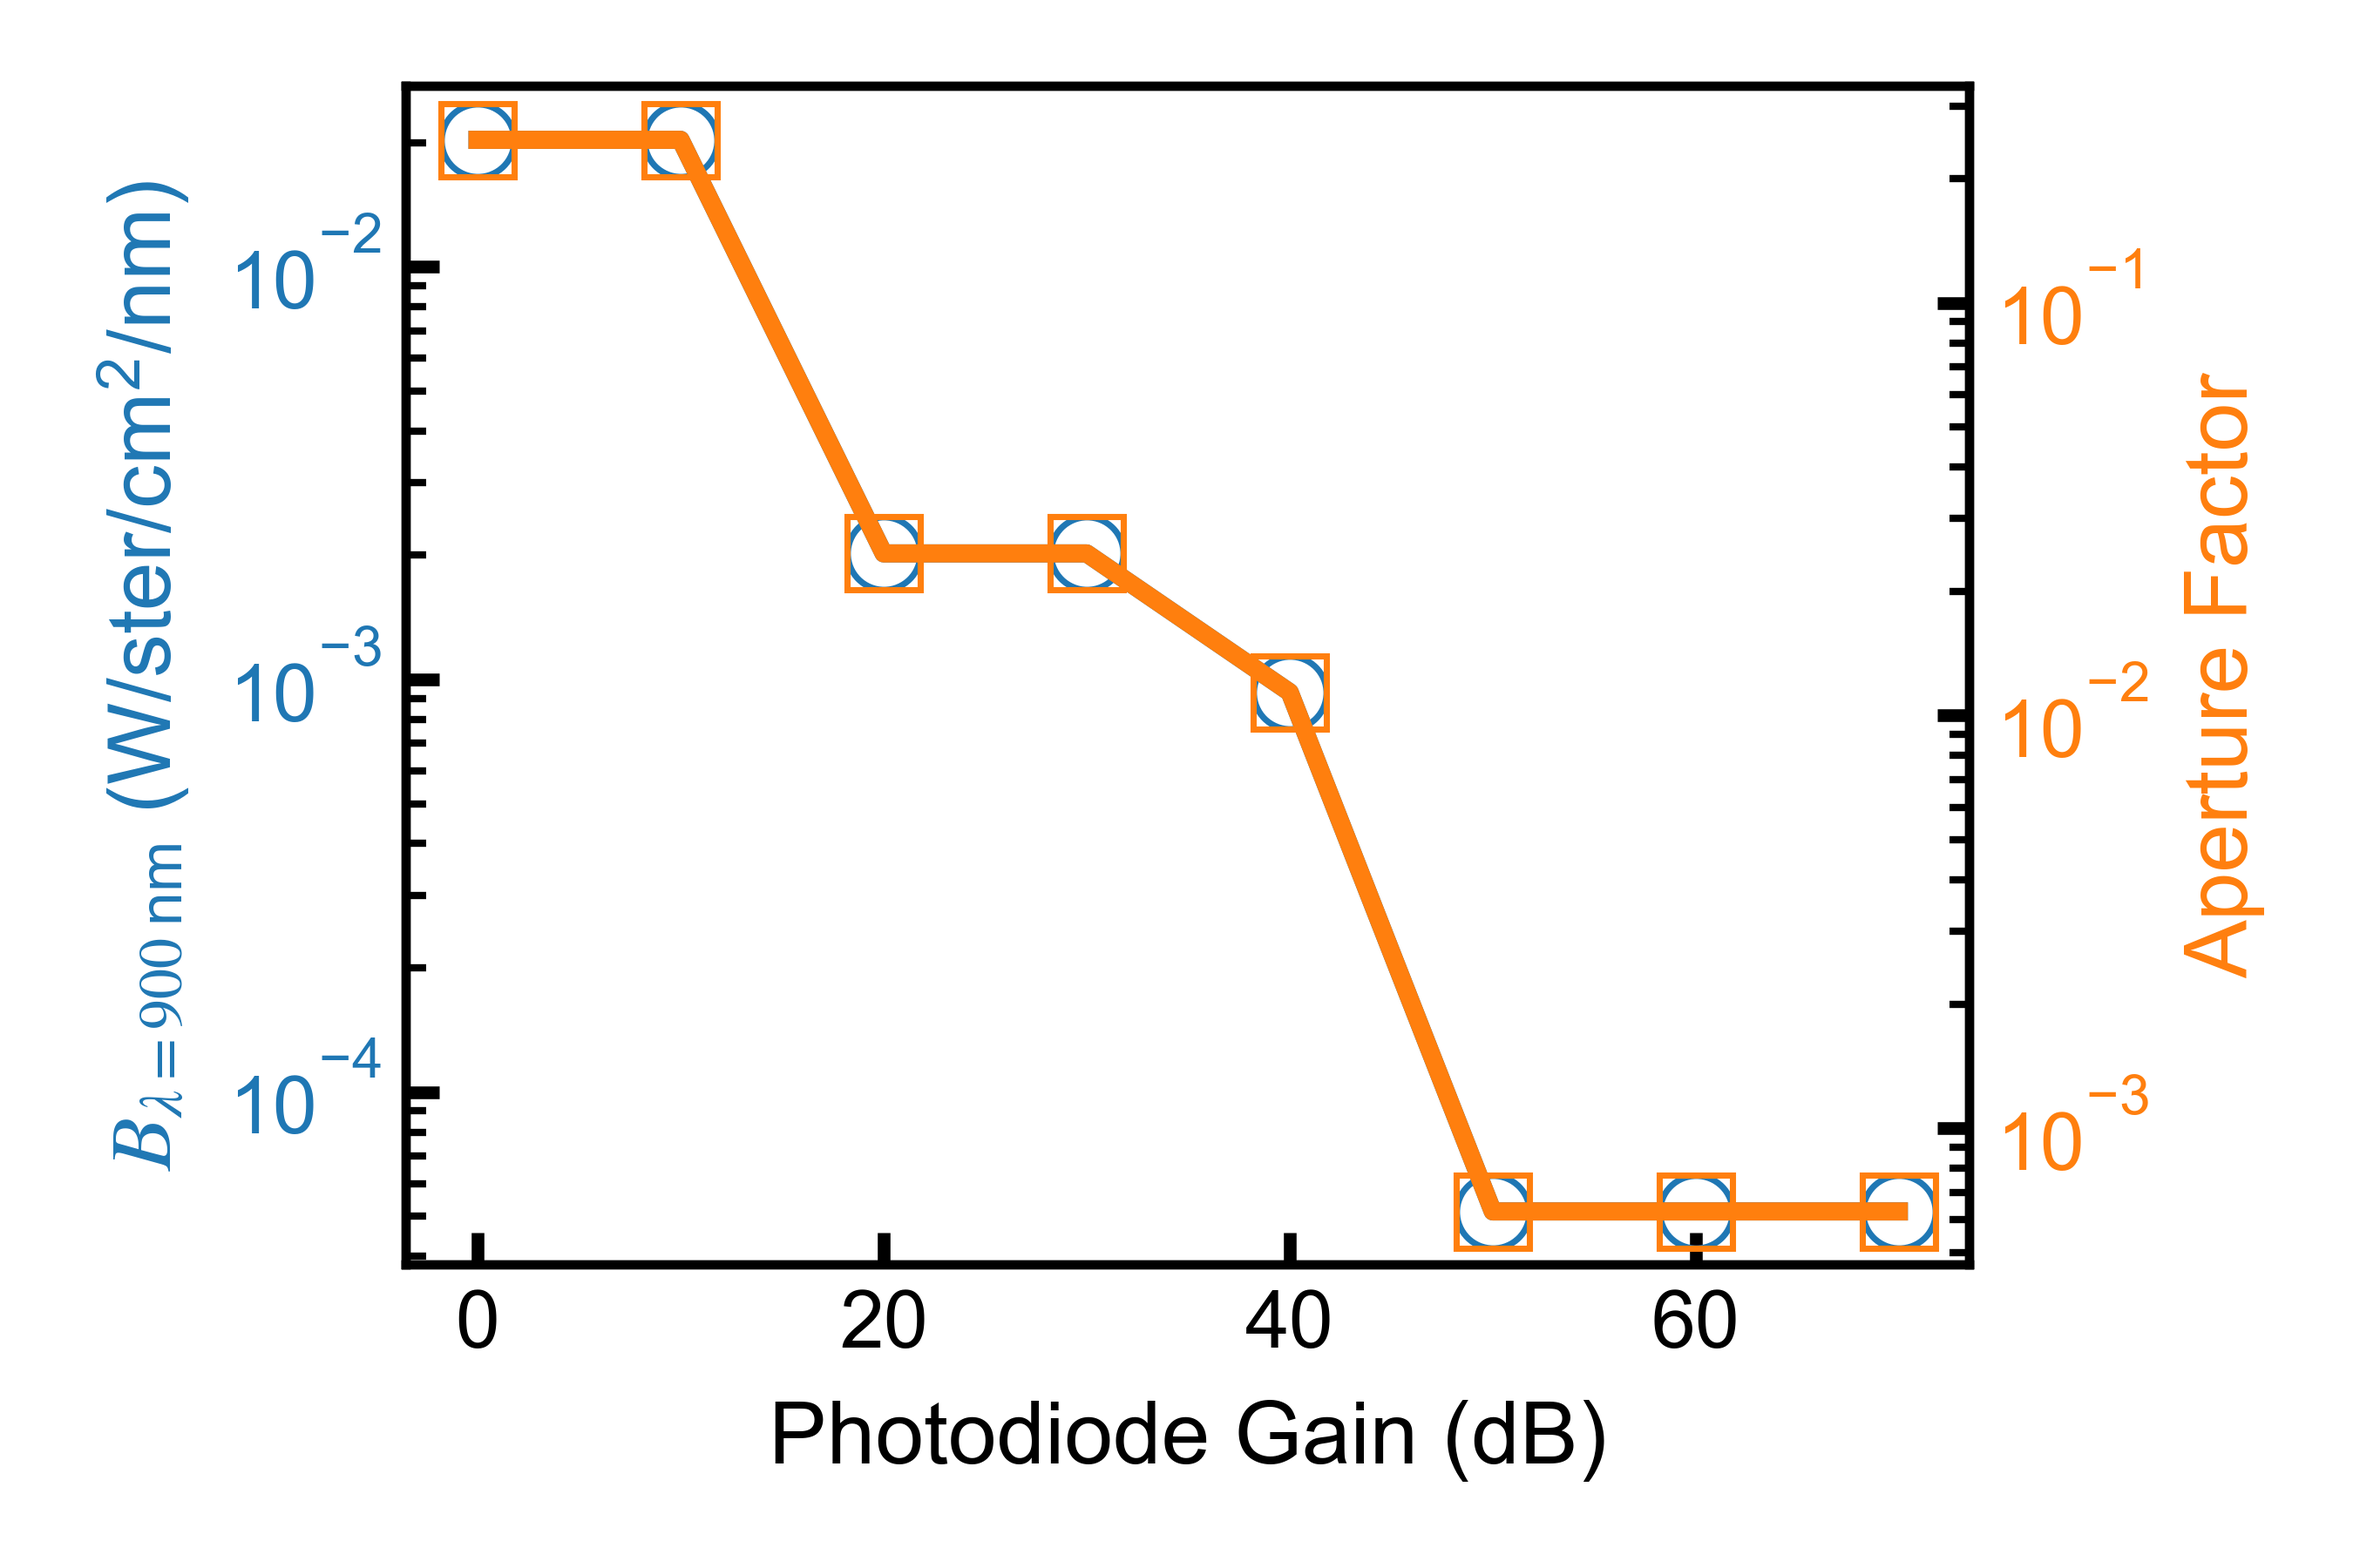
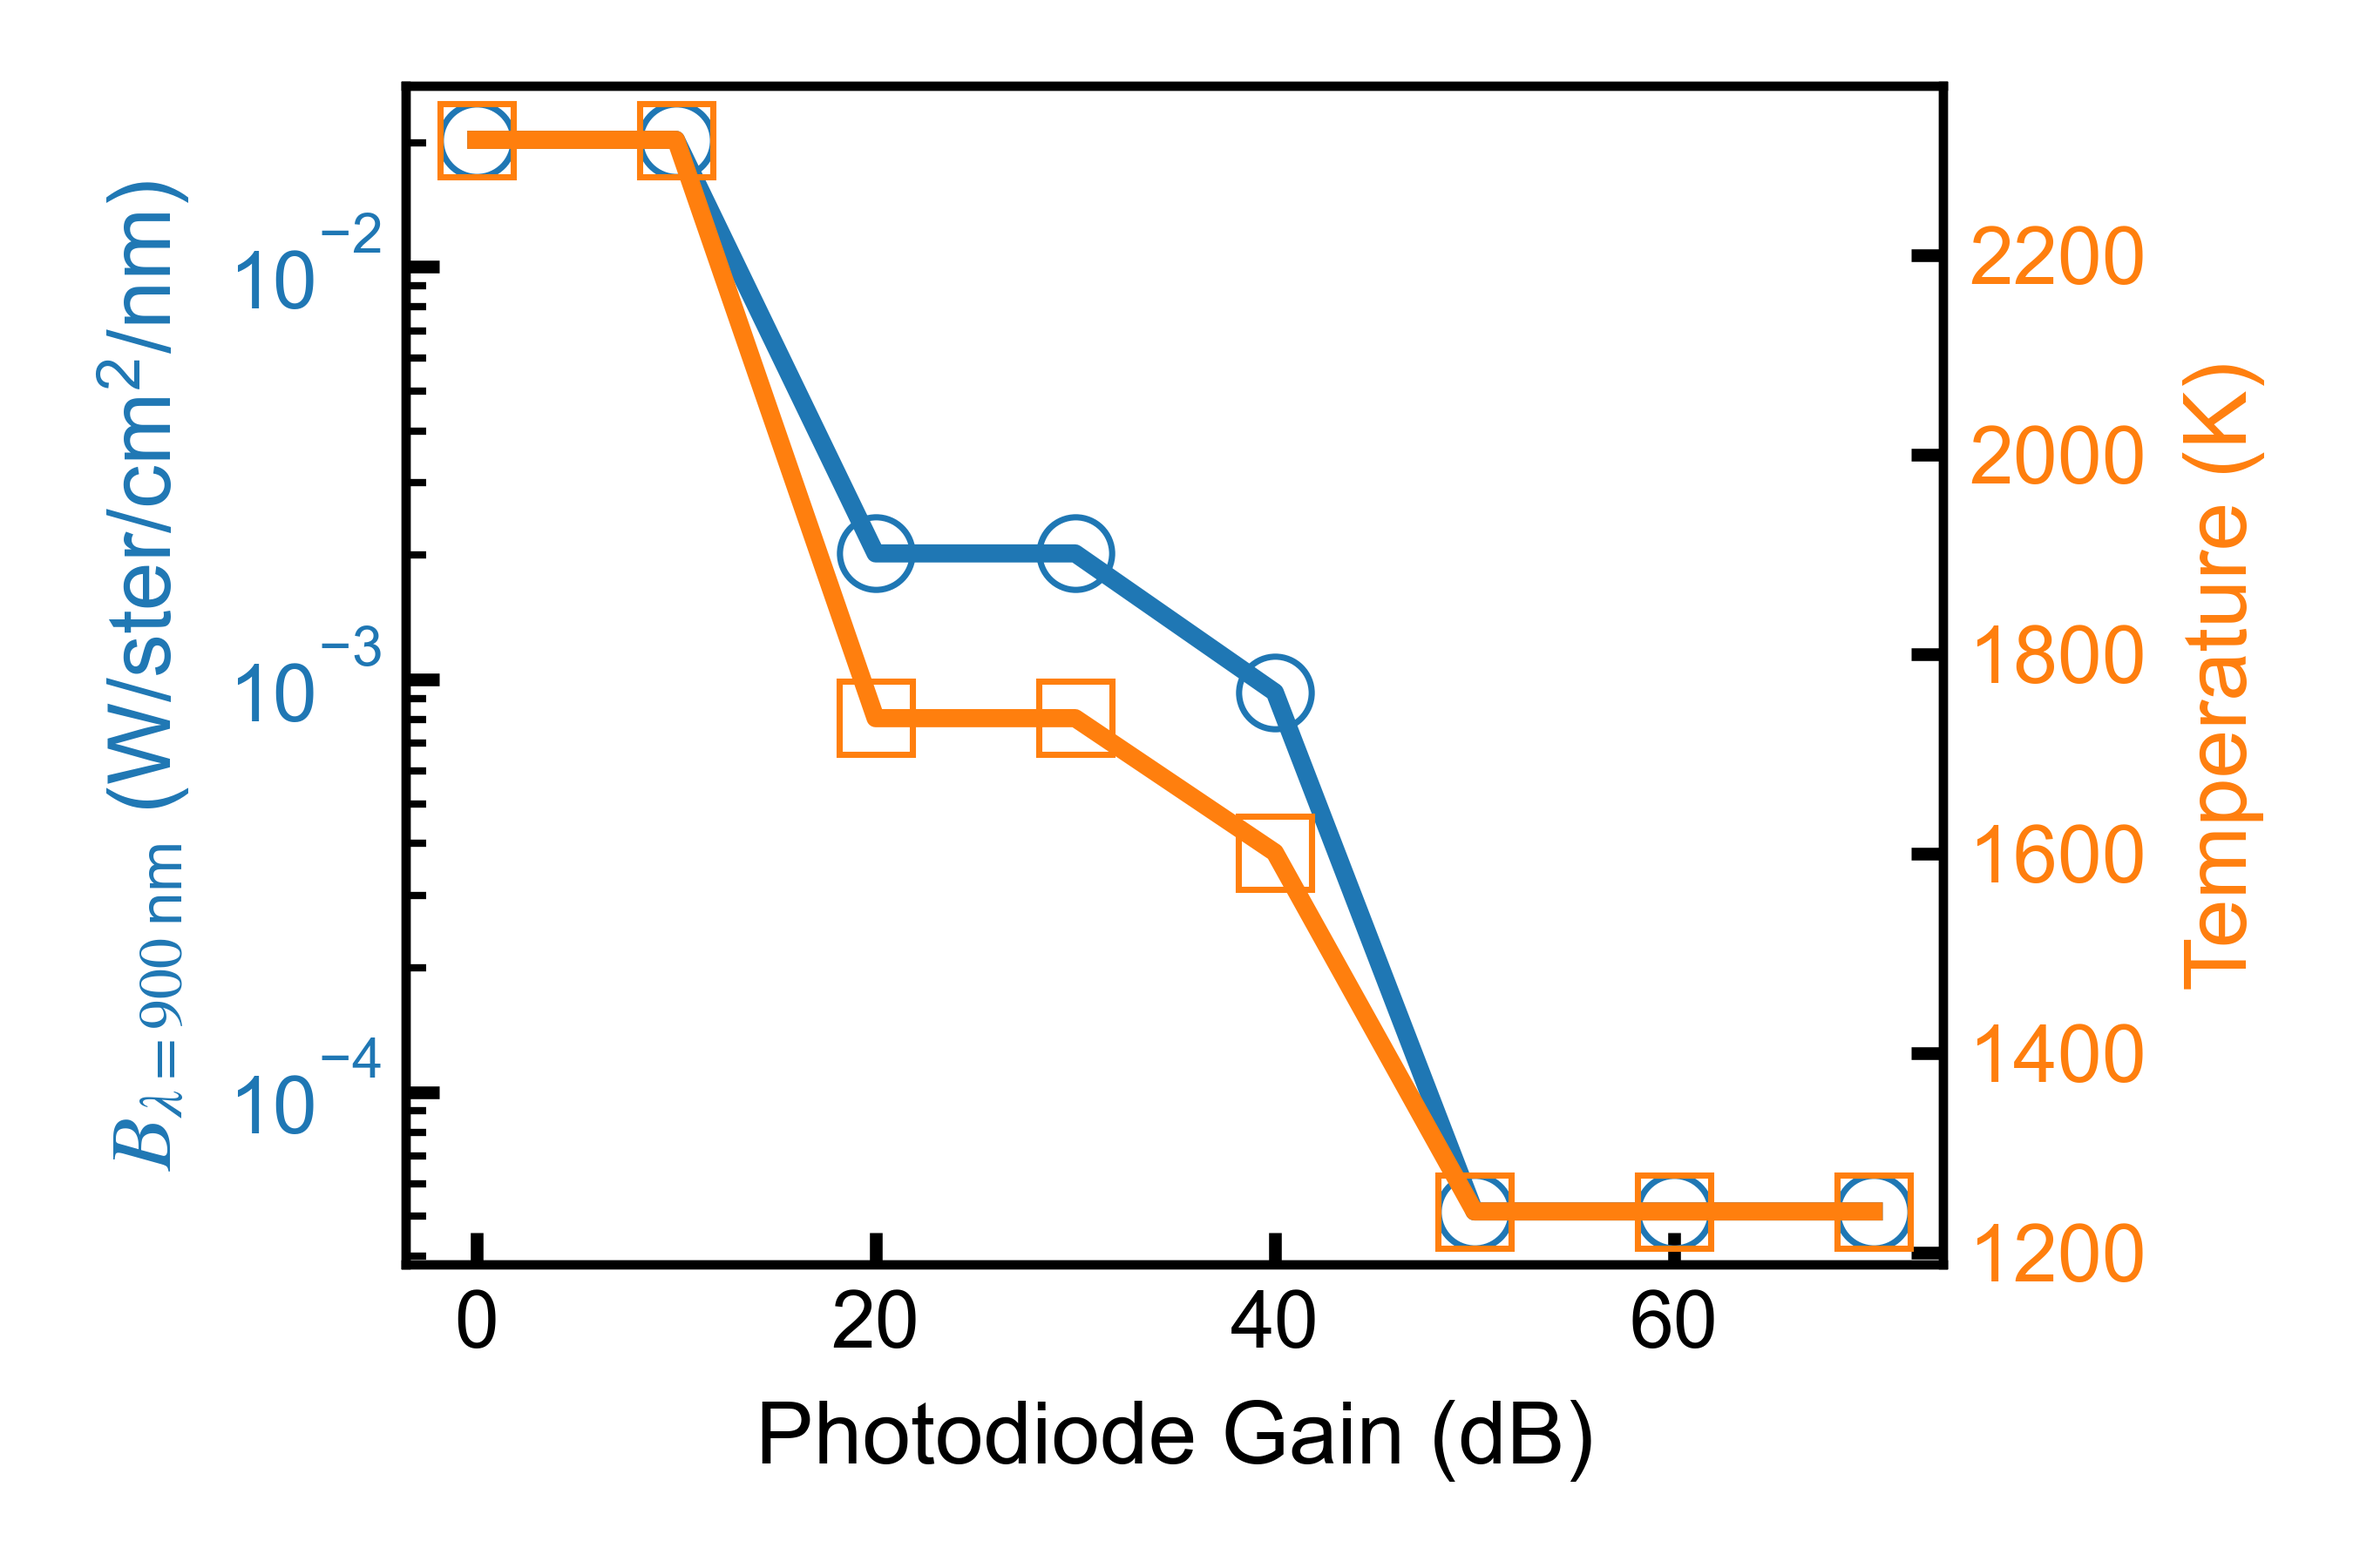
IR thermography calibration

diff --git a/ir_thermography/ir_thermography_calibration.py b/ir_thermography/ir_thermography_calibration.py
@@ -2,9 +2,9 @@ import pandas as pd
 import numpy as np
 import matplotlib.pyplot as plt
 import matplotlib as mpl
-import os
 import json
 from matplotlib.ticker import ScalarFormatter
+from scipy import integrate
 
 import numpy as np
 from scipy import constants
@@ -13,7 +13,8 @@ window_transmission_at_900 = 0.912
 slide_transmission_at_900 = 0.934
 
 calibration_temperature = 2900 # K
-calibration_wavelength = 900 # nm
+calibration_wavelength = 900.0 # nm
+labsphere_brightness_at_900 = 5.16E-5 # W/s/cm^2/ster/nm
 
 
 def spectral_radiance(wavelength_nm, temperature: float):
@@ -43,6 +44,14 @@ def spectral_radiance(wavelength_nm, temperature: float):
     radiance *= 1E14 / (np.exp(hc_by_kt_lambda) - 1.0)  # 1E27 J/m^3 s = 1E18 J / (m^2 nm s) = 1E14 J / cm^2 nm
     return radiance
 
+def latex_float(f):
+    float_str = f"{f:5.4g}".lower()
+    if "e" in float_str:
+        base, exponent = float_str.split("e")
+        # return r"{0} \times 10^{{{1}}}".format(base, int(exponent))
+        return f"{base} \\times 10^{{{int(exponent):2d}}}"
+    else:
+        return float_str
 
 def temperature_at_radiance(radiance: float, wavelength_nm: float):
     """
@@ -88,11 +97,12 @@ if __name__ == "__main__":
     #     wavelength_nm
     # )
 
-
+    labsphere_aperture = calibration_brightness_900 / labsphere_brightness_at_900
+    print(f"Labsphere aperture: {labsphere_aperture:6.3E}")
     # calibration_df['Calibration Factor (V/W/ster/cm^2/nm) at 900 nm'] = calibration_df['Signal out (V)'] / calibration_df['Labsphere Brightness at 900 nm (W/ster/cm^2/nm)']
     calibration_df['Aperture Factor'] = brightness / calibration_brightness_900
 
-    calibration_df['Calibration Factor (W/ster/cm^2/nm/V) at 900 nm and 2900 K'] = calibration_brightness_900 / calibration_df['Signal out (V)']
+    calibration_df['Calibration Factor (W/ster/cm^2/nm/V) at 900 nm and 2900 K'] = brightness / calibration_df['Signal out (V)']
 
     print(calibration_df)
 
@@ -105,7 +115,7 @@ if __name__ == "__main__":
     fig1.set_size_inches(4.5, 3.0)
 
     color_brightness = 'C0'
-    color_aperture = 'C1'
+    color_temperature = 'C1'
 
     ax1.set_yscale('log')
 
@@ -122,18 +132,18 @@ if __name__ == "__main__":
     ax1.set_ylabel('$B_{\lambda = 900\; \mathregular{nm}}$ (W/ster/cm$^{\mathregular{2}}$/nm)', color=color_brightness)
 
     ax2 = ax1.twinx()
-    ax2.tick_params(axis='y', labelcolor=color_aperture)
-    ax2.set_yscale('log')
+    ax2.tick_params(axis='y', labelcolor=color_temperature)
+    # ax2.set_yscale('log')
 
     ax2.plot(
         calibration_df['Photodiode Gain (dB)'].values,
-        calibration_df['Aperture Factor'].values,
-        color=color_aperture,
+        temperature_at_radiance(brightness, calibration_wavelength),
+        color=color_temperature,
         # ls='none',
         marker='s', fillstyle='none'
     )
 
-    ax2.set_ylabel('Aperture Factor', color=color_aperture)
+    ax2.set_ylabel('Temperature (K)', color=color_temperature)
 
     fig1.tight_layout()
 
@@ -146,7 +156,7 @@ if __name__ == "__main__":
     ax1.set_yscale('log')
     ax1.tick_params(axis='y', labelcolor=color_cf)
     ax2 = ax1.twinx()
-    # ax2.set_yscale('log')
+    ax2.set_yscale('log')
     ax2.tick_params(axis='y', labelcolor=color_cb)
 
     ax1.plot(
@@ -199,5 +209,78 @@ if __name__ == "__main__":
     fig3.savefig('gain_vs_cf_eh.png', dpi=600)
 
     calibration_df.to_csv('pd_brightness_processed.csv', index=False, float_format='%8.4g')
+
+    calibration_df = pd.read_csv(
+        'https://raw.githubusercontent.com/erickmartinez/relozwall/main/ir_thermography/optronics_OL_455-12-2_SN_96203007_calibration_table.csv'
+    )
+
+    calibration_wl = calibration_df['Wavelength (nm)'].values
+    calibration_radiance = calibration_df['Spectral Radiance (W/(sr cm^2 nm))'].values
+    wl_sim = np.linspace(calibration_wl.min(), calibration_wl.max(), 500)
+    B = spectral_radiance(wl_sim, calibration_temperature)
+
+    radiated_power_bb = integrate.simps(B, wl_sim)
+    radiated_power_cal = integrate.simps(calibration_radiance, calibration_wl)
+
+    aperture_factor = radiated_power_bb / radiated_power_cal
+
+    fig4, ax1 = plt.subplots()
+    fig4.set_size_inches(4.75, 3.5)
+
+    ax1.plot(
+        calibration_wl / 1000.0, calibration_radiance * labsphere_aperture, color='C0',
+        label=rf'${latex_float(labsphere_aperture)} \times $ LabSphere'
+    )
+
+    ax1.plot(
+        wl_sim / 1000.0, B, color='C1', ls='--', lw=1.25,
+        label=f'Planck'
+    )
+
+    # ax2 = ax1.twinx()
+
+    ax1.set_xlabel('Wavelength ($\mathregular{\mu}$m)')
+    ax1.set_ylabel('$B_{\lambda}$ (W /sr cm$^2$ nm)')#, color='C0')
+    # ax2.set_ylabel('$B_{\lambda}$ (Lab sphere) (W /sr cm$^2$ nm)', color='C1')
+    ax1.ticklabel_format(useMathText=True, axis='y')
+    # ax2.ticklabel_format(useMathText=True, axis='y')
+
+    # ax2.plot(
+    #     calibration_wl / 1000.0, calibration_radiance , color='C1',
+    #     label=f'LabSphere'
+    # )
+    # ax2.legend(loc='lower right', frameon=False)
+
+    ymin, ymax = ax1.get_ylim()
+    idx_sim = (np.abs(wl_sim - calibration_wavelength)).argmin()
+    ax1.set_ylim(ymin, ymax)
+    ax1.legend(loc='upper left', frameon=False)
+
+    wl_sim_ref = wl_sim[idx_sim] / 1000.0
+    B_sim_ref = B[idx_sim]
+
+    x1 = calibration_wavelength / 1000.0
+    y1 = calibration_brightness_900
+    xdisplay, ydisplay = ax1.transData.transform_point((x1, y1))
+
+    offset = 50
+    connectionstyle = "angle3,angleA=0,angleB=90"
+    bbox = dict(boxstyle="round", fc="0.8")
+    arrowprops = dict(
+        arrowstyle="->", color="0.5",
+        shrinkA=5, shrinkB=5,
+        patchA=None, patchB=None,
+        connectionstyle=connectionstyle
+    )
+    ax1.annotate(
+        f"$P_{{\mathrm{{cal}}}} = {latex_float(radiated_power_cal)}$\n$P_{{\mathrm{{Planck}}}} = {latex_float(radiated_power_bb)}$",
+        xy=(x1, y1), xycoords='data',  # 'figure pixels', #data',
+        xytext=(offset, -2 * offset), textcoords='offset points',  # 'data',
+        arrowprops=arrowprops,
+        bbox=bbox,
+        ha='left'
+    )
+
+    fig4.tight_layout()
 
     plt.show()

diff --git a/data_processing/pd_temperature.py b/data_processing/pd_temperature.py
@@ -1,0 +1,98 @@
+import ir_thermography.thermometry as irt
+import pandas as pd
+import numpy as np
+import matplotlib.pyplot as plt
+import matplotlib as mpl
+import json
+from matplotlib.ticker import ScalarFormatter
+import os
+import re
+
+import numpy as np
+
+base_path = r"C:\Users\erick\OneDrive\Documents\ucsd\Postdoc\research\data\firing_tests"
+ir_file = 'LT_R3N21_100PCT_40GAIN 2022-03-17_1.csv'
+
+color_voltage = 'tab:red'
+color_temperature = 'tab:purple'
+
+
+def get_experiment_params(base_path: str, filename: str, debug: bool = False):
+    # Read the experiment parameters
+    results_csv = os.path.join(base_path, f'{filename}.csv')
+    count = 0
+    params = {}
+    with open(results_csv) as f:
+        for line in f:
+            if line.startswith('#'):
+                if count > 1:
+                    l = line.strip()
+                    if debug:
+                        print(l)
+                    if l == '#Data:':
+                        break
+                    pattern1 = re.compile("\s+(.*?):\s(.*?)\s(.*?)$")
+                    pattern2 = re.compile("\s+(.*?):\s(.*?)$")
+                    matches1 = pattern1.findall(l)
+                    matches2 = pattern2.findall(l)
+                    if len(matches1) > 0:
+                        params[matches1[0][0]] = {
+                            'value': matches1[0][1],
+                            'units': matches1[0][2]
+                        }
+                    elif len(matches2) > 0:
+                        params[matches2[0][0]] = {
+                            'value': matches2[0][1],
+                            'units': ''
+                        }
+                count += 1
+    return params
+
+
+if __name__ == "__main__":
+    thermometry = irt.PDThermometer()
+    file_tag = os.path.splitext(ir_file)[0]
+    ir_df = pd.read_csv(os.path.join(base_path, ir_file), comment='#').apply(pd.to_numeric)
+    ir_df = ir_df[ir_df['Measurement Time (s)'] <= 2.0]
+    params = get_experiment_params(base_path=base_path, filename=file_tag)
+    pd_gain = int(params['Photodiode Gain']['value'])
+    print(pd_gain)
+    thermometry.gain = pd_gain
+    print(thermometry.calibration_factor)
+    time_s = ir_df['Measurement Time (s)'].values
+    voltage = 0.5*(ir_df['Photodiode Voltage (V)'].values)
+    temperature = thermometry.get_temperature(voltage=voltage) - 273.15
+
+    with open('plot_style.json', 'r') as file:
+        json_file = json.load(file)
+        plot_style = json_file['defaultPlotStyle']
+    mpl.rcParams.update(plot_style)
+
+    fig1, ax1 = plt.subplots()
+    fig1.set_size_inches(4.5, 3.0)
+
+    ax1.tick_params(axis='y', labelcolor=color_voltage)
+
+    ax1.plot(
+        time_s,
+        voltage, color=color_voltage
+    )
+
+    ax1.set_xlabel('Time (s)')
+    ax1.set_ylabel('Photdiode Voltage (V)', color=color_voltage)
+
+    ax2 = ax1.twinx()
+    ax2.tick_params(axis='y', labelcolor=color_temperature)
+
+    ax2.plot(
+        time_s,
+        temperature,
+        color=color_temperature,
+        # ls='none',
+    )
+
+    ax2.set_ylabel('Temperature (°C)', color=color_temperature)
+
+    fig1.tight_layout()
+
+    plt.show()

diff --git a/ir_thermography/thermometry.py b/ir_thermography/thermometry.py
@@ -1,0 +1,82 @@
+import numpy as np
+import pandas as pd
+import sys
+sys.path.append('../')
+
+DEFAULT_CALIBRATION = '../ir_thermography/pd_brightness_processed.csv'
+TRANSMISSION_WINDOW = 0.912
+TRANSMISSION_SLIDE = 0.934
+
+
+def temperature_at_radiance(radiance: float, wavelength_nm: float):
+    """
+    Estimates the blackbody temperature in Kelvin for a source at a given wavelength in nm and a known spectral radiance
+    ..math::
+        T(B, \lambda) = \frac{h c}{\lambda k} \left\{ \ln\left[\frac{hc^2}{\lambda^5 B} + 1\right]\right\}^{-1}
+
+    Parameters
+    ----------
+    radiance: float
+        The spectral radiance in W / cm^2 / nm / s / ster
+    wavelength_nm: float
+        The wavelength in nm
+
+
+    Returns
+    -------
+    float:
+        The estimated temperature in K
+    """
+    hc = 6.62607015 * 2.99792458  # x 1E -34 (J s) x 1E8 (m/s) = 1E-26 (J m)
+    hc2 = hc * 2.99792458  # x 1E -34 (J s) x 1E16 (m/s)^2 = 1E-18 (J m^2 s^{-1})
+    arg = 2.0 * hc2 * np.power(wavelength_nm, -5.0)  # 1E18 J / (m^2 nm s)
+    arg = 1.0E14 * arg / radiance  # 1E14 [J / (cm^2 nm s)] / [J / cm^2 nm s] = 1
+    arg += 1.0
+    temperature = 1E6 * hc / wavelength_nm / 1.380649  # 1E-26 (J m) / 1E-9 m / 1E-23 J/K
+    temperature = temperature / np.log(arg)
+    return temperature
+
+
+class PDThermometer:
+    __calibration_df: pd.DataFrame
+    __gain: int = 0
+    __valid_gains = None
+    __wavelength: float = 900.0
+    __transmission_factor: float = TRANSMISSION_WINDOW
+
+    def __init__(self, calibration_url: str = DEFAULT_CALIBRATION):
+        self.__calibration_df = pd.read_csv(calibration_url).apply(pd.to_numeric)
+        self.__valid_gains = self.__calibration_df['Photodiode Gain (dB)'].unique()
+        self.__transmission_factor = TRANSMISSION_WINDOW * TRANSMISSION_SLIDE
+        print(self.__calibration_df)
+
+    @property
+    def gain(self) -> float:
+        return self.__gain
+
+    @gain.setter
+    def gain(self, value):
+        if value in self.__valid_gains:
+            self.__gain == value
+
+    @property
+    def transmission_factor(self) -> float:
+        return self.__transmission_factor
+
+    @transmission_factor.setter
+    def transmission_factor(self, value: float):
+        value = abs(value)
+        if (value != 0) and (value is not np.nan) and (value is not np.inf):
+            self.__transmission_factor = value
+
+    @property
+    def calibration_factor(self) -> float:
+        df = self.__calibration_df[self.__calibration_df['Photodiode Gain (dB)'] == self.gain]
+        # brightness = df['Labsphere Brightness at 900 nm (W/ster/cm^2/nm)'].mean()
+        # return brightness / df['Signal out (V)'].mean()
+        print(df['Calibration Factor (W/ster/cm^2/nm/V) at 900 nm and 2900 K'].values)
+        return df['Calibration Factor (W/ster/cm^2/nm/V) at 900 nm and 2900 K'].mean()
+
+    def get_temperature(self, voltage: np.ndarray) -> np.ndarray:
+        brightness = voltage * self.calibration_factor / self.transmission_factor
+        return temperature_at_radiance(radiance=brightness, wavelength_nm=self.__wavelength)
